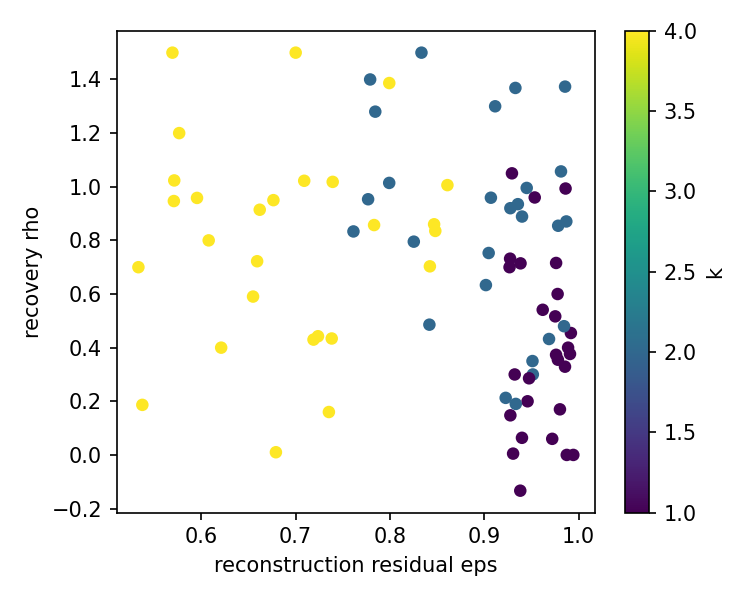
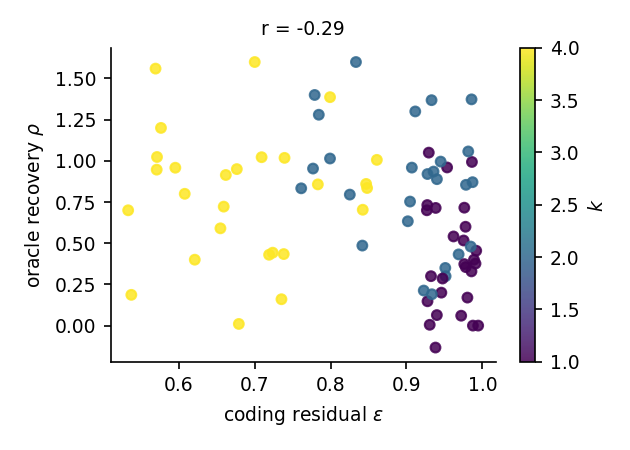
Paper: figures + tables inserted (E1 main, E2 heatmap, E5 scale, eps-rho, ablation, cost); compiles 5pp

diff --git a/scripts/14_paper_figures.py b/scripts/14_paper_figures.py
@@ -1,0 +1,100 @@
+"""Generate paper figures from result CSVs (no GPU needed)."""
+import json
+import sys
+from pathlib import Path
+
+sys.path.insert(0, str(Path(__file__).resolve().parents[1] / "src"))
+
+import matplotlib
+matplotlib.use("Agg")
+import matplotlib.pyplot as plt
+import numpy as np
+import pandas as pd
+import seaborn as sns
+
+from cass.config import results_dir, FIGURES_DIR
+from cass.compound import COMPOUND_REGISTRY, compound_components
+from cass.tasks import ALL_TASKS, TASK_REGISTRY
+
+MODEL = sys.argv[1] if len(sys.argv) > 1 else "llama31-8b"
+out = results_dir(MODEL)
+plt.rcParams.update({"font.size": 9, "axes.spines.top": False,
+                     "axes.spines.right": False})
+
+# ---- Fig: E5 scale curve ----
+d5 = pd.read_csv(out / "e5_scale.csv")
+fig, ax = plt.subplots(figsize=(4.2, 3))
+g = d5.groupby(["size", "draw"])["acc"].mean().reset_index()
+m = g.groupby("size")["acc"].agg(["mean", "sem"])
+ax.errorbar(m.index, m["mean"], yerr=1.96 * m["sem"], marker="o",
+            capsize=3, lw=1.5, color="#2166ac")
+ax.set_xlabel("dictionary size $T'$ (skills)")
+ax.set_ylabel("accuracy on held-out tasks")
+ax.set_xticks(m.index)
+plt.tight_layout()
+plt.savefig(FIGURES_DIR / f"e5_scale_{MODEL}.pdf")
+plt.savefig(FIGURES_DIR / f"e5_scale_{MODEL}.png", dpi=150)
+plt.close()
+
+# ---- Fig: E2 coefficient heatmap ----
+cm = json.load(open(out / "e2_coeff_matrix.json"))
+compounds = list(cm)
+tasks = sorted(ALL_TASKS, key=lambda t: (TASK_REGISTRY[t][1], t))
+Mx = np.array([[cm[c][t] for t in tasks] for c in compounds])
+Mx = Mx / (Mx.max(axis=1, keepdims=True) + 1e-12)   # row-normalize
+fig, ax = plt.subplots(figsize=(9, 3.6))
+sns.heatmap(Mx, ax=ax, cmap="Blues", cbar_kws={"label": "norm. coeff"},
+            xticklabels=tasks, yticklabels=compounds, linewidths=0.3,
+            linecolor="white")
+for i, c in enumerate(compounds):
+    for comp in compound_components(c):
+        if comp in tasks:
+            j = tasks.index(comp)
+            ax.add_patch(plt.Rectangle((j, i), 1, 1, fill=False,
+                                       edgecolor="#b2182b", lw=1.4))
+ax.tick_params(axis="x", labelsize=6, rotation=90)
+ax.tick_params(axis="y", labelsize=7)
+plt.tight_layout()
+plt.savefig(FIGURES_DIR / f"e2_heatmap_{MODEL}.pdf")
+plt.savefig(FIGURES_DIR / f"e2_heatmap_{MODEL}.png", dpi=150)
+plt.close()
+
+# ---- Fig: eps vs rho (from e1 summary) ----
+R = pd.read_csv(out / "e1_summary.csv").dropna(subset=["rho"])
+fig, ax = plt.subplots(figsize=(4.2, 3))
+sc = ax.scatter(R["eps"], R["rho"].clip(-0.2, 1.6), c=R["k"], cmap="viridis",
+                s=22, alpha=0.85)
+cor = np.corrcoef(R["eps"], R["rho"].clip(-0.2, 1.6))[0, 1]
+ax.set_xlabel(r"coding residual $\varepsilon$")
+ax.set_ylabel(r"oracle recovery $\rho$")
+ax.set_title(f"r = {cor:.2f}", fontsize=9)
+plt.colorbar(sc, label="$k$")
+plt.tight_layout()
+plt.savefig(FIGURES_DIR / f"e1_eps_vs_rho_{MODEL}.pdf")
+plt.savefig(FIGURES_DIR / f"e1_eps_vs_rho_{MODEL}.png", dpi=150)
+plt.close()
+
+# ---- Fig: E1 main bars ----
+R4 = pd.read_csv(out / "e1_summary.csv")
+R4 = R4[R4["k"] == 4].sort_values(["family", "task"])
+fig, ax = plt.subplots(figsize=(9, 3))
+x = np.arange(len(R4))
+ax.bar(x - 0.2, R4["acc_syn"], 0.4, label="CASS (k=4)", color="#2166ac")
+ax.bar(x + 0.2, R4["acc_oracle"], 0.4, label="oracle", color="#92c5de")
+ax.plot(x, R4["acc_icl"], "_", color="k", markersize=10, label="10-shot ICL")
+ax.plot(x, R4["acc_naive"], "x", color="#b2182b", markersize=4,
+        label="naive avg")
+ax.set_xticks(x)
+ax.set_xticklabels(R4["task"], rotation=80, fontsize=6)
+ax.set_ylabel("accuracy")
+ax.legend(fontsize=7, ncol=4)
+prev = None
+for i, f in enumerate(R4["family"]):
+    if f != prev:
+        ax.axvline(i - 0.5, color="gray", lw=0.5, ls=":")
+        prev = f
+plt.tight_layout()
+plt.savefig(FIGURES_DIR / f"e1_main_{MODEL}.pdf")
+plt.savefig(FIGURES_DIR / f"e1_main_{MODEL}.png", dpi=150)
+plt.close()
+print("figures written to", FIGURES_DIR)

diff --git a/paper/main.tex b/paper/main.tex
@@ -15,7 +15,7 @@
 \usepackage{multirow}
 \usepackage{array}
 \usepackage{graphicx}
-\usepackage{amsmath,amssymb}
+\usepackage{amsmath}
 \usepackage{algorithm}
 \usepackage{algpseudocode}
 
@@ -316,7 +316,8 @@ The proof instantiates block-sparse recovery results for unions of
 subspaces~\cite{eldar2009robust,eldar2010block} and group-LASSO
 consistency~\cite{yuan2006model}; we contribute the \emph{verification}:
 common-component removal is what brings measured coherence into a workable
-regime (median pairwise $\mu_B$ vs.\ $r_0$; Table~\ref{tab:mub}), and the
+regime (median pairwise $\mu_B$: $0.55$ at $r_0{=}1$, versus mean pairwise
+task-mean cosine $0.34\to0.18$), and the
 condition's failure is diagnostic---the largest coherences occur inside the
 translation family ($\mu_B$ up to $0.95$), exactly where we observe correct
 \emph{family} recovery but wrong-member steering (\S\ref{sec:analysis}).
@@ -330,6 +331,17 @@ by Davis--Kahan at rate $O(\sigma/(\sqrt n\,\mathrm{gap}))$.
 \end{proposition}
 Empirically $\varepsilon$ anti-correlates with recovery (Fig.~\ref{fig:eps}),
 grounding its use as a deployment-time fallback trigger.
+
+\begin{figure*}[t]
+\centering
+\includegraphics[width=\textwidth]{../figures/e1_main_llama31-8b.pdf}
+\caption{E1 leave-one-task-out results (Llama-3.1-8B, $k{=}4$, 5 seeds,
+strict exact match). For each held-out task, \method{} synthesizes a steering
+operator from the remaining 31 skills plus 4 demonstrations. Bars: \method{}
+vs.\ own-subspace oracle; dashes: 10-shot ICL; crosses: naive dictionary
+averaging (${\approx}0$ everywhere). Dotted lines separate task families.}
+\label{fig:e1}
+\end{figure*}
 
 \section{Experiments}
 \label{sec:exp}
@@ -370,6 +382,42 @@ non-trivial method overall ($0.16$ vs.\ retrieval $0.03$, naive component
 averaging $0.05$; 10-shot ICL $0.61$): retrieval cannot compose, and its
 failure here is categorical, not marginal.
 
+\begin{figure*}[t]
+\centering
+\includegraphics[width=0.92\textwidth]{../figures/e2_heatmap_llama31-8b.pdf}
+\caption{E2 coefficient matrix: group-LASSO coefficient magnitudes (row
+normalized) for ten compound tasks (rows) over the 32-skill dictionary
+(columns). Red boxes mark ground-truth constituents; mass concentrates on
+constituent skills and their families without any supervision.}
+\label{fig:heatmap}
+\end{figure*}
+
+\begin{table}[t]
+\caption{Ablations (8 representative tasks, $k{=}4$, mean accuracy).
+Full grids in the appendix.}
+\label{tab:ablation}
+\small
+\begin{tabular}{llccccc}
+\toprule
+Axis & \multicolumn{6}{l}{Values $\to$ mean accuracy}\\
+\midrule
+Shared rank $r_0$ & \multicolumn{6}{l}{$0{:}\,.25\quad \mathbf{1{:}\,.50}
+\quad 2{:}\,.42\quad 4{:}\,.35\quad 8{:}\,.17\quad 16{:}\,.02$}\\
+Injection layers & \multicolumn{6}{l}{$\{12\}{:}\,.14\quad \{16\}{:}\,.28
+\quad \mathbf{\{12,16\}{:}\,.42}\quad \{12,14,16\}{:}\,.40$}\\
+Direction $\Delta$ & \multicolumn{6}{l}{$\mathbf{hybrid\,(z){:}\,.42}\quad
+z\text{-only}{:}\,.41\quad \text{recon}{:}\,.10\quad
+\text{blend}{:}\,.05$}\\
+Solver & \multicolumn{6}{l}{$\mathbf{gLASSO{:}\,.42}\quad
+\text{OMP}{:}\,.42\quad \text{simplex}{:}\,.40\quad \text{LS}{:}\,.31$}\\
+Examples $k$ & \multicolumn{6}{l}{$1{:}\,.23\quad 2{:}\,.35\quad
+\mathbf{4{:}\,.42}\quad 8{:}\,.41$}\\
+Samples $n$ & \multicolumn{6}{l}{$\mathbf{25{:}\,.44}\quad 50{:}\,.44\quad
+100{:}\,.42$}\\
+\bottomrule
+\end{tabular}
+\end{table}
+
 \subsection{E4: Ablations}
 \label{sec:e4}
 Table~\ref{tab:ablation} summarizes (8 representative tasks, $k{=}4$, 3
@@ -390,6 +438,35 @@ added skill improves zero-training transfer to unseen tasks
 prompt averages $131$ tokens vs.\ $10.5$ zero-shot; \method's one-time
 extraction costs $2{,}211$ tokens, breaking even at ${\sim}17$ queries and
 saving $10.2\times$ at $10^3$ queries per task.
+
+\begin{figure}[t]
+\centering
+\includegraphics[width=0.49\linewidth]{../figures/e5_scale_llama31-8b.pdf}%
+\hfill
+\includegraphics[width=0.49\linewidth]{../figures/e1_eps_vs_rho_llama31-8b.pdf}
+\caption{Left (E5): held-out accuracy vs.\ dictionary size (mean $\pm$95\%
+CI over 5 random sub-dictionaries). Right: coding residual $\varepsilon$
+anti-correlates with oracle recovery $\rho$, grounding
+Prop.~\ref{prop:transfer} and the ICL-fallback trigger.}
+\label{fig:scale}
+\end{figure}
+
+\begin{table}[t]
+\caption{Per-task serving cost (tokens; means over the benchmark).
+\method{} extraction is one-time; queries then run with zero context.}
+\label{tab:cost}
+\small
+\begin{tabular}{lrrr}
+\toprule
+Queries per task & 10-shot ICL & \method{} & saving\\
+\midrule
+10 & 1{,}306 & 2{,}316 & $0.6\times$\\
+100 & 13{,}060 & 3{,}265 & $4.0\times$\\
+1{,}000 & 130{,}609 & 12{,}751 & $10.2\times$\\
+10{,}000 & 1{,}306{,}093 & 107{,}617 & $12.1\times$\\
+\bottomrule
+\end{tabular}
+\end{table}
 
 \subsection{E6: Cross-Model Validation}
 [E6 running: Qwen3-4B and Llama-3.2-3B with depth-proportional layer pairs;